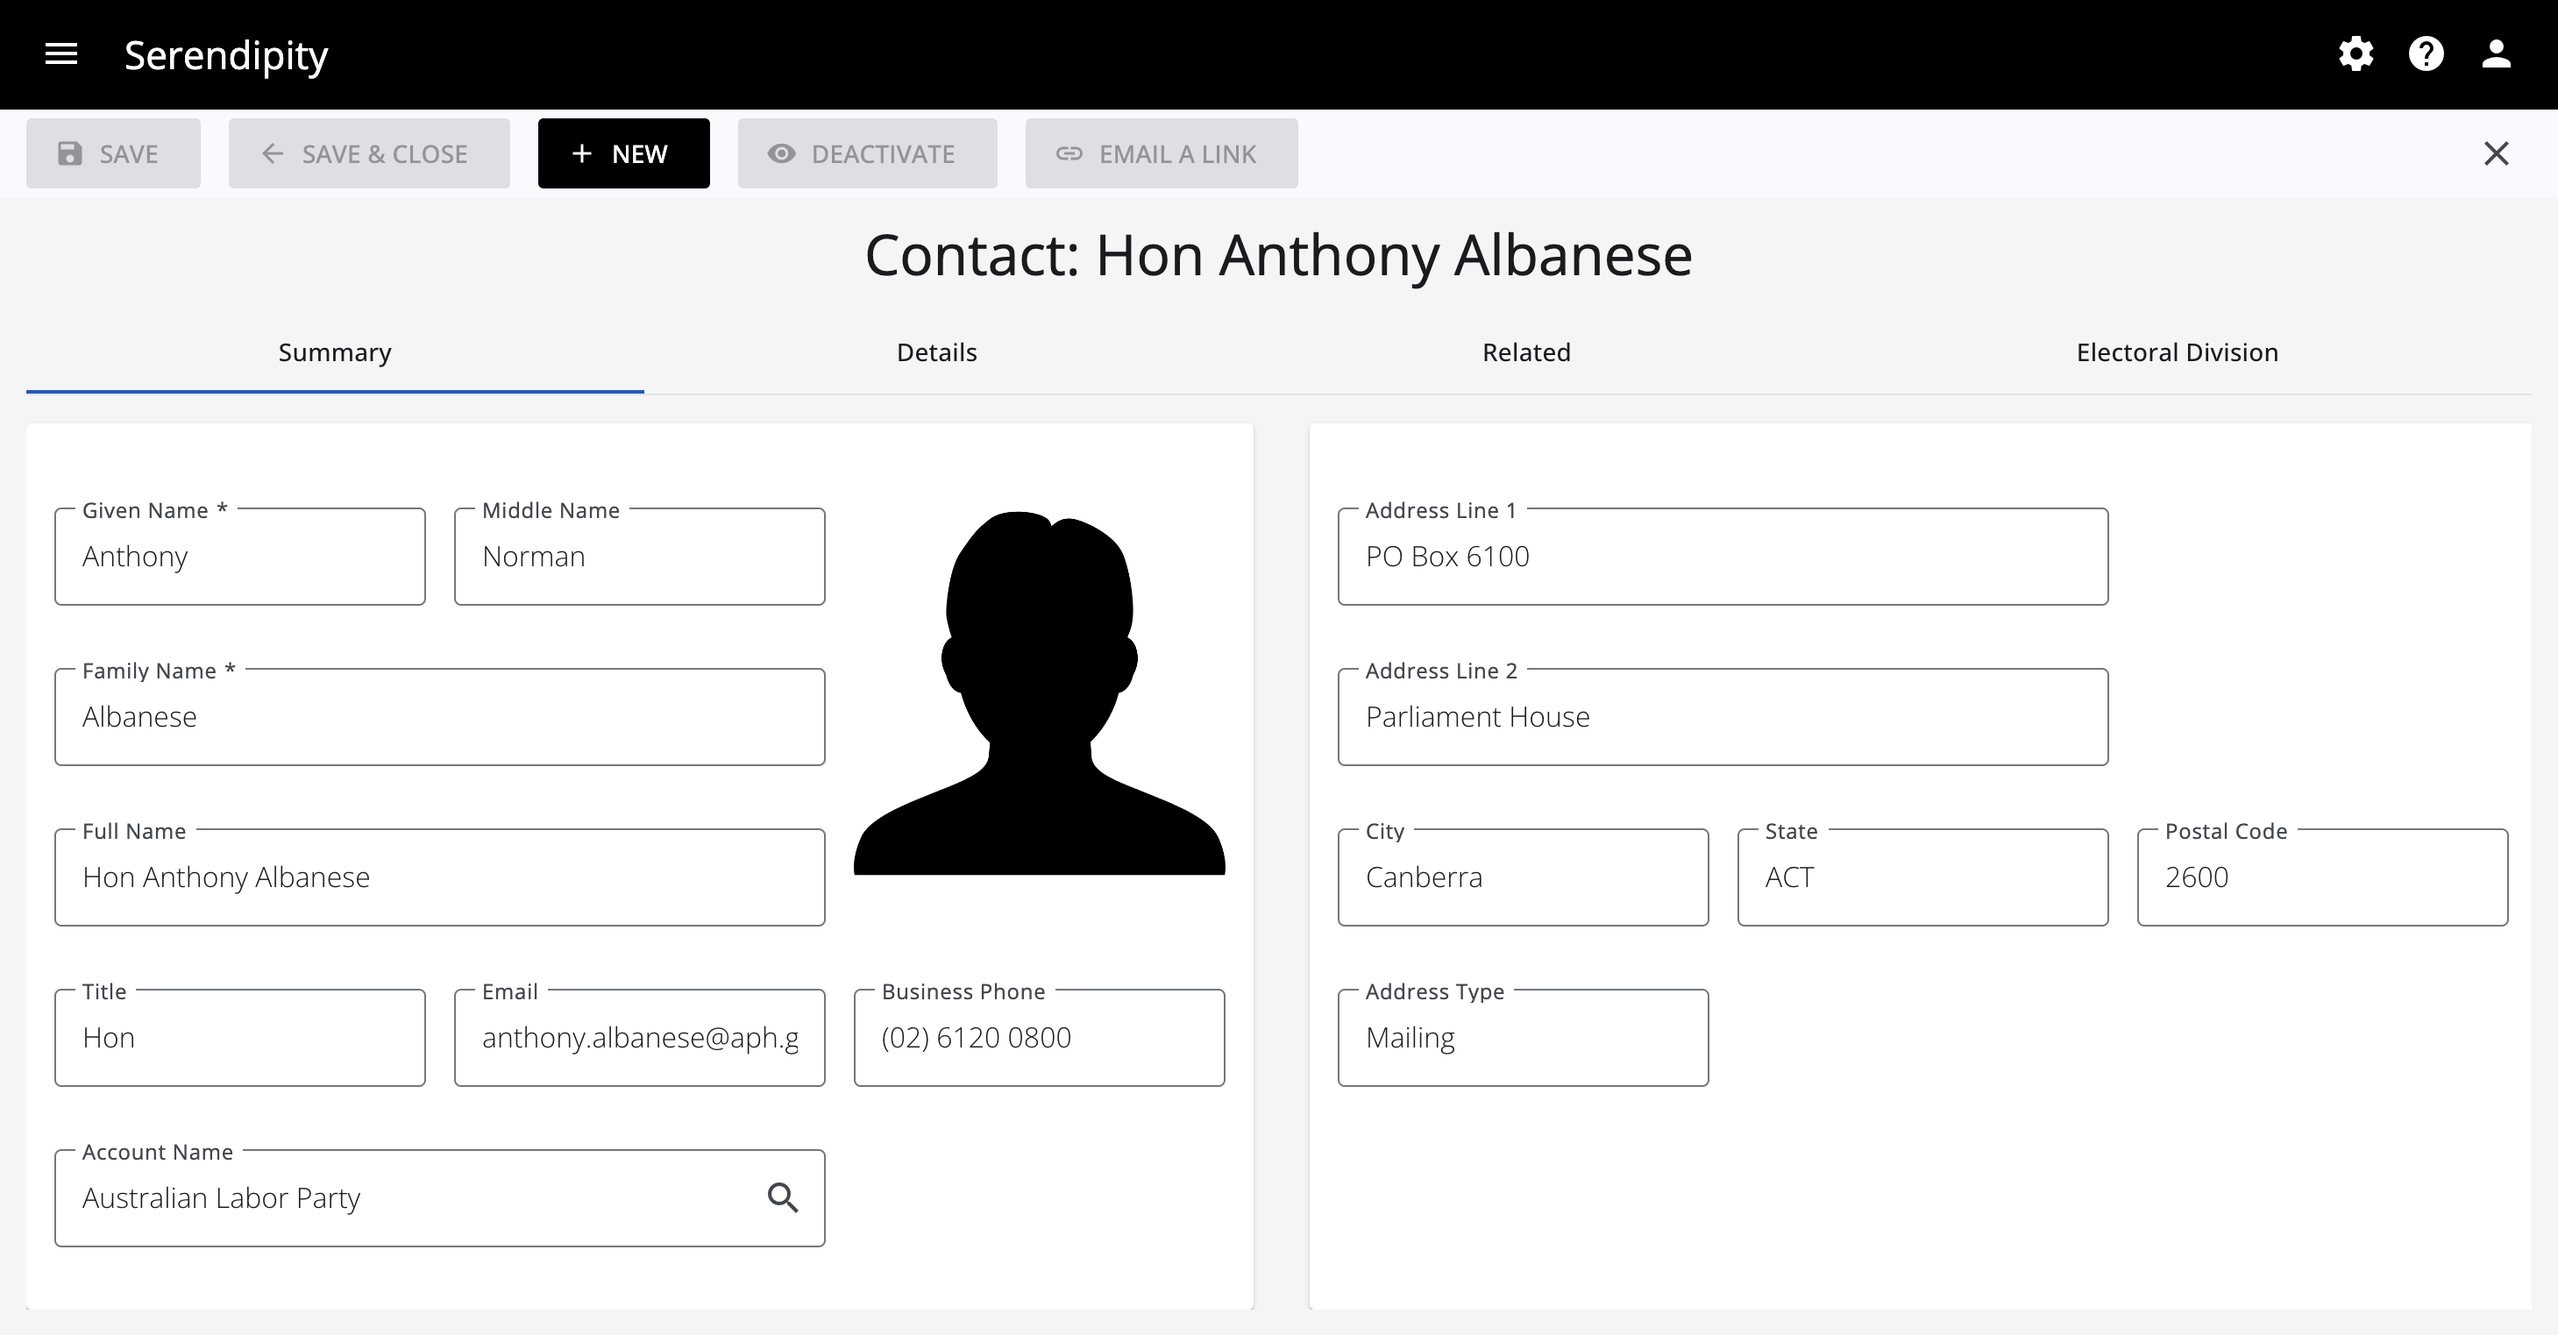
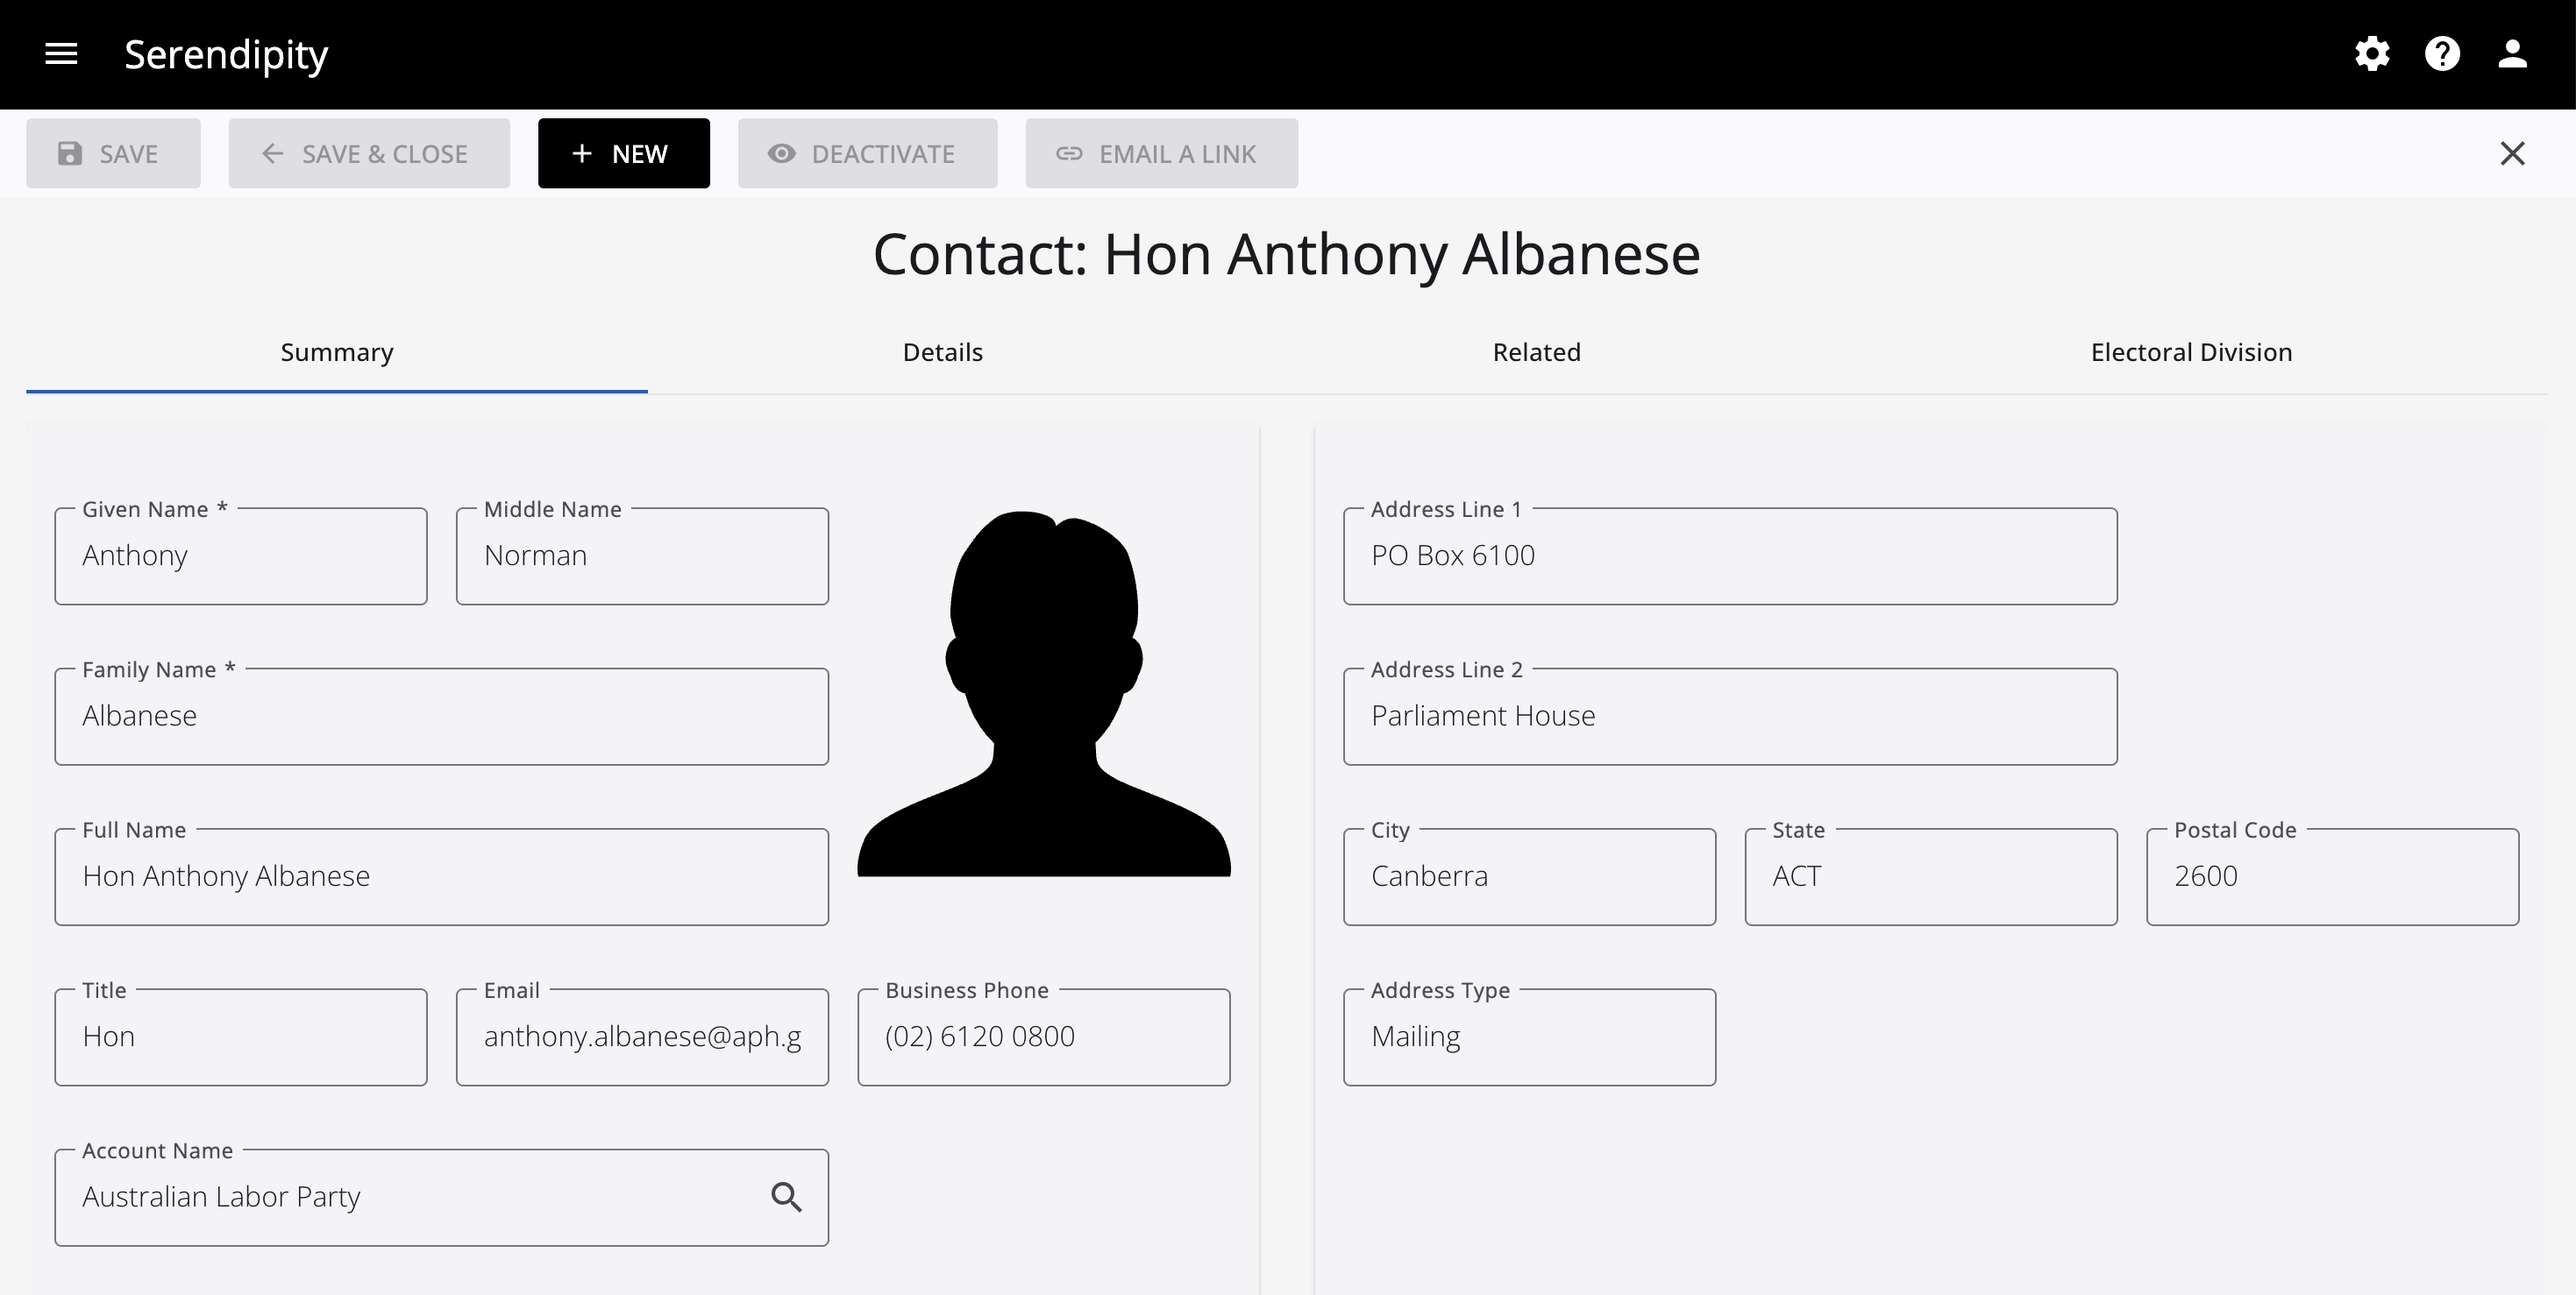
Updated the Contacts component styles

diff --git a/frontend/projects/serendipity-party-lib/src/lib/features/contact/contact.scss b/frontend/projects/serendipity-party-lib/src/lib/features/contact/contact.scss
@@ -1,5 +1,5 @@
 
 .mat-mdc-card {
-  background-color: white !important;
+  // background-color: white !important;
   border-radius: 3px !important;
 }
